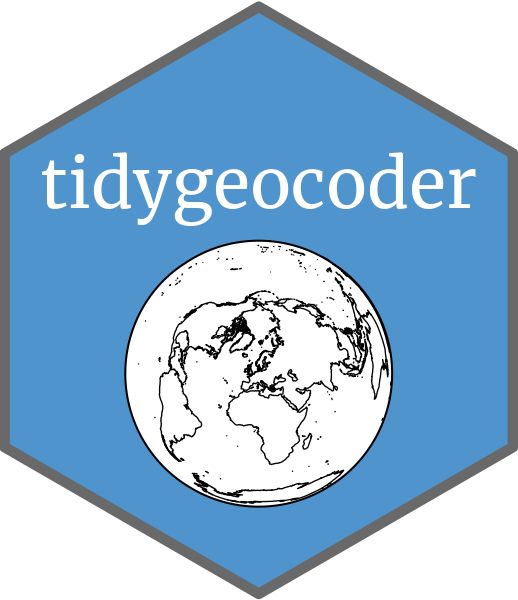
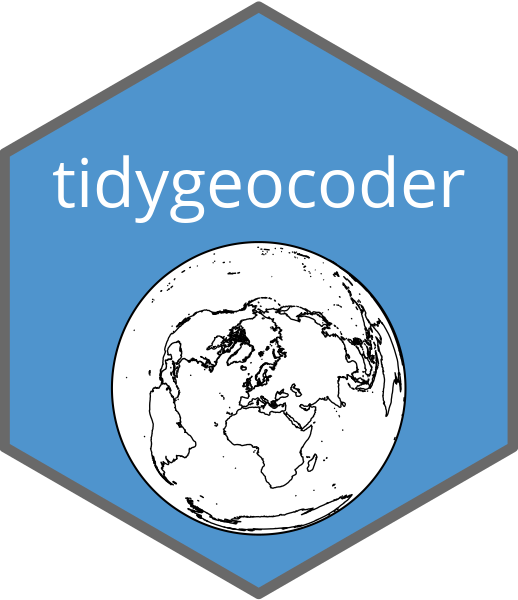
geocodio-bugfix
fixed lat-lng name in geocodio. code cleanup. adjusted logo

Changed region(s): [[0.2162, 0.39, 0.8031, 0.9], [0.0618, 0.24, 0.9266, 0.39]]

diff --git a/docs/articles/tidygeocoder.html b/docs/articles/tidygeocoder.html
@@ -107,12 +107,12 @@
 <div class="sourceCode" id="cb2"><html><body><pre class="r"><span class="no">address_single</span> <span class="kw">%&gt;%</span> <span class="fu"><a href="../reference/geocode.html">geocode</a></span>(<span class="kw">address</span> <span class="kw">=</span> <span class="no">singlelineaddress</span>, <span class="kw">method</span> <span class="kw">=</span> <span class="st">'census'</span>,
                            <span class="kw">verbose</span> <span class="kw">=</span> <span class="fl">TRUE</span>)
 <span class="co">#&gt; Number of Unique Addresses: 2</span>
-<span class="co">#&gt; Calling the census batch geocoder</span>
+<span class="co">#&gt; Passing 2 addresses to the census batch geocoder</span>
 <span class="co">#&gt; Querying API URL: https://geocoding.geo.census.gov/geocoder/locations/addressbatch</span>
 <span class="co">#&gt; Passing the following parameters to the API:</span>
-<span class="co">#&gt; format = json</span>
-<span class="co">#&gt; benchmark = Public_AR_Current</span>
-<span class="co">#&gt; vintage = Current_Current</span>
+<span class="co">#&gt; format : "json"</span>
+<span class="co">#&gt; benchmark : "Public_AR_Current"</span>
+<span class="co">#&gt; vintage : "Current_Current"</span>
 <span class="co">#&gt; </span>
 <span class="co">#&gt; # A tibble: 2 x 3</span>
 <span class="co">#&gt;   singlelineaddress                           lat  long</span>
@@ -202,12 +202,12 @@
 <span class="no">duplicate_addrs</span> <span class="kw">%&gt;%</span>
   <span class="fu"><a href="../reference/geocode.html">geocode</a></span>(<span class="no">singlelineaddress</span>, <span class="kw">verbose</span> <span class="kw">=</span> <span class="no">T</span>)
 <span class="co">#&gt; Number of Unique Addresses: 2</span>
-<span class="co">#&gt; Calling the census batch geocoder</span>
+<span class="co">#&gt; Passing 2 addresses to the census batch geocoder</span>
 <span class="co">#&gt; Querying API URL: https://geocoding.geo.census.gov/geocoder/locations/addressbatch</span>
 <span class="co">#&gt; Passing the following parameters to the API:</span>
-<span class="co">#&gt; format = json</span>
-<span class="co">#&gt; benchmark = Public_AR_Current</span>
-<span class="co">#&gt; vintage = Current_Current</span>
+<span class="co">#&gt; format : "json"</span>
+<span class="co">#&gt; benchmark : "Public_AR_Current"</span>
+<span class="co">#&gt; vintage : "Current_Current"</span>
 <span class="co">#&gt; </span>
 <span class="co">#&gt; # A tibble: 7 x 3</span>
 <span class="co">#&gt;   singlelineaddress                           lat  long</span>
@@ -254,10 +254,10 @@
 <span class="co">#&gt; Number of Unique Addresses: 1</span>
 <span class="co">#&gt; Querying API URL: http://nominatim.openstreetmap.org/search</span>
 <span class="co">#&gt; Passing the following parameters to the API:</span>
-<span class="co">#&gt; limit = 1</span>
-<span class="co">#&gt; q = Cairo, Egypt</span>
-<span class="co">#&gt; polygon_geojson = 1</span>
-<span class="co">#&gt; format = json</span>
+<span class="co">#&gt; limit : "1"</span>
+<span class="co">#&gt; q : "Cairo, Egypt"</span>
+<span class="co">#&gt; polygon_geojson : "1"</span>
+<span class="co">#&gt; format : "json"</span>
 <span class="co">#&gt; </span>
 <span class="co">#&gt; Query completed in: 0.3 seconds</span>
 <span class="co">#&gt; Total query time (including sleep): 1 seconds</span>
